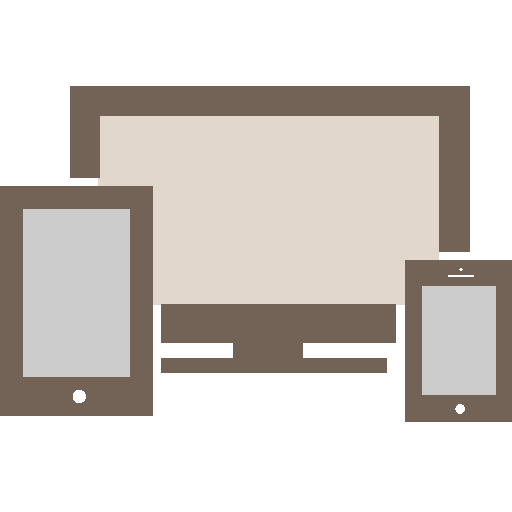
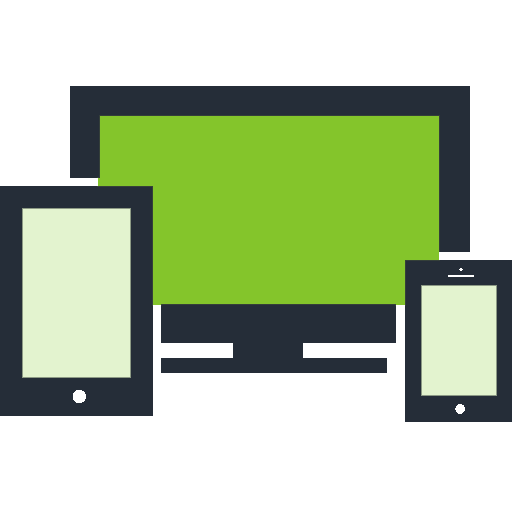
modifying service.css

diff --git a/src/components/Services/Service.css b/src/components/Services/Service.css
@@ -1,9 +1,8 @@
 .service:hover .rounded-circle{
-    /* background-color:#f3f3f3; */
-    border:3px solid #736357;
+    background-color:#e3f3cf;
 }
 .service .rounded-circle{
-    border:2px solid #736357;
+    border:2px solid #84c52b;
     width: 100px;
     height:100px ;
 }
@@ -11,22 +10,22 @@
     width: 50px;
 }
 .service h2{
-    color:rgb(71, 70, 70) ;
+    color:#27303f;
     font-size: 0.8rem;
 }
 .service p{
     font-size: 0.6rem;
-    color: rgb(143, 131, 131);
+    color: #a7a7a7;
 }
-.service button:hover{
-    color:#d8cbc0;
-    background-color:#726354 ;
-}
+
 .service button{
     font-size: 0.7rem;
-    color:#e9e2dc;
-    background-color:#837260 ;
+    color:#04121d;
+    border:1px solid #04121d ;
+
 }
-.service button img{
-    width:15px;
+.service button:hover{
+    color:#fff;
+    border:1px solid #04121d ;
+    background-color:#04121d ;
 }

diff --git a/src/components/carousel/Carousel.jsx b/src/components/carousel/Carousel.jsx
@@ -20,8 +20,8 @@ export default class Carousel extends Component {
                   <img src={header} class="d-block w-100" alt="..." />
                   <div className="d-none d-md-flex flex-md-column d-md-block align-items-start position-absolute px-3 py-3">
                       <h2 className="font-weight-bold">{this.props.title}</h2>
-                      <p className="text-right mt-2">{this.props.content}</p>
-                      <button className="btn mt-2 py-2 px-4 text-center">{this.props.btntext}</button>
+                      <p className="text-right my-3">{this.props.content}</p>
+                      <button className="btn  py-2 px-4 text-center">{this.props.btntext}</button>
                   </div>
                 </div>
                 {/* <div class="carousel-item">

diff --git a/src/components/Services/Serviceitem.jsx b/src/components/Services/Serviceitem.jsx
@@ -13,7 +13,7 @@ export default class Serviceitem extends Component {
                     </div>
                     <h2 className="py-3 m-0">{this.props.title}</h2>
                     <p className="">{this.props.content}</p>
-                    <button className="btn">{this.props.btntext} <img src={this.props.btnicon} alt="" className="mr-2"/> </button>
+                    <button className="btn">{this.props.btntext}</button>
                 </div>
             </div>
         )

diff --git a/src/components/top-services/Topitem.jsx b/src/components/top-services/Topitem.jsx
@@ -6,7 +6,7 @@ export default class Topitem extends Component {
     }
     render() {
         return (
-            <div className="topitem col-12 col-md-3">
+            <div className="topitem col-12 col-md-3 px-4">
                 <div className="d-flex flex-column align-items-center bg-white p-4 b-shadow">
                     <img src={this.props.icon} alt="" className="mb-4"/>
                     <h2>{this.props.title}</h2>

diff --git a/src/components/carousel/Carousel.css b/src/components/carousel/Carousel.css
@@ -1,18 +1,19 @@
 .carousel{
-    margin-bottom: 6%;
+    margin-bottom: 12%;
 }
 .carousel-item > div{
     top:15%;
     left: 7%;
-    width: 450px;
+    width: 420px;
 }
 .carousel-item > div > h2{
     color: #555555;
-    font-size: 1.5rem;
+    font-size: 3.5rem;
 }
 .carousel-item > div > p{
     font-size: 0.7rem;
     color: #8d9799;
+    line-height: 20px;
 }
 .carousel-item > div >  button{
     font-size: 0.8rem;

diff --git a/src/components/top-services/Top.css b/src/components/top-services/Top.css
@@ -1,5 +1,5 @@
 .topservice{
-    bottom: -10%;
+    bottom: -25%;
     z-index:1;
 }
 .topitem div:hover{
